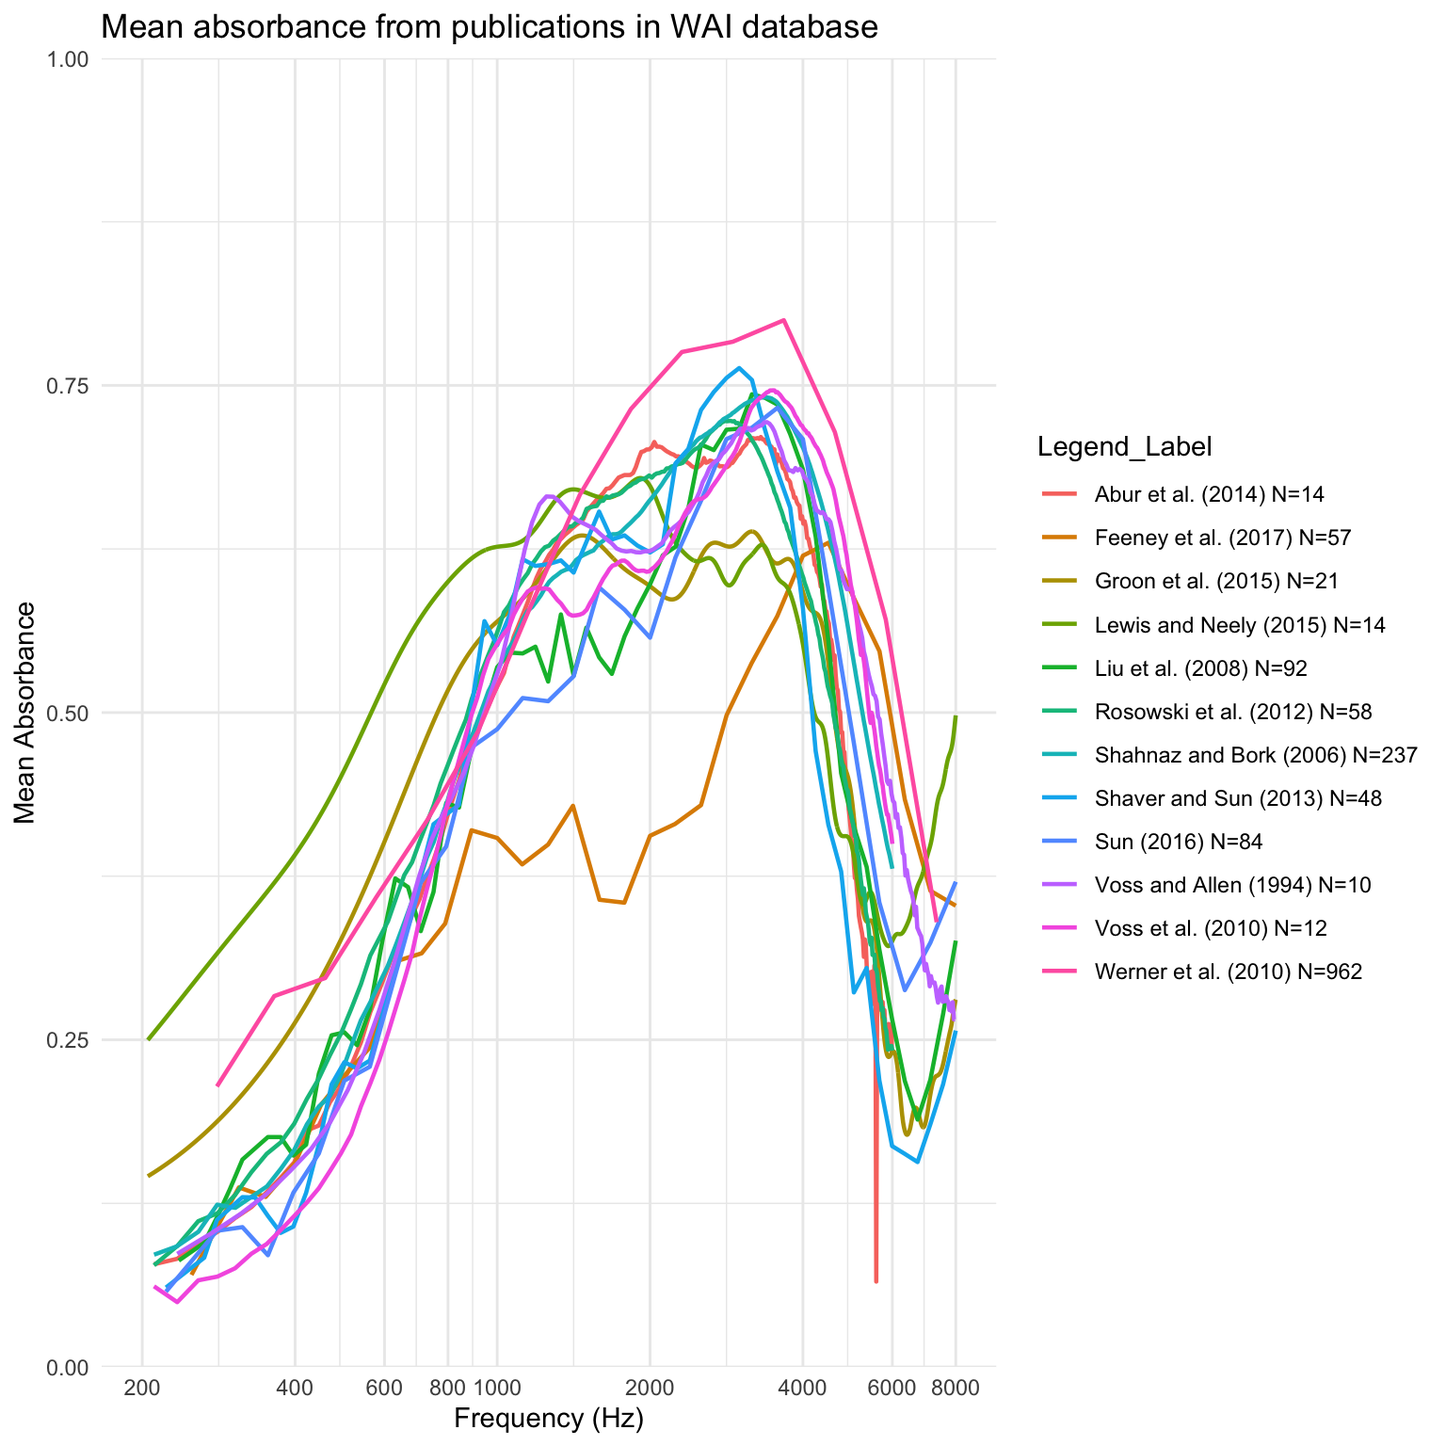
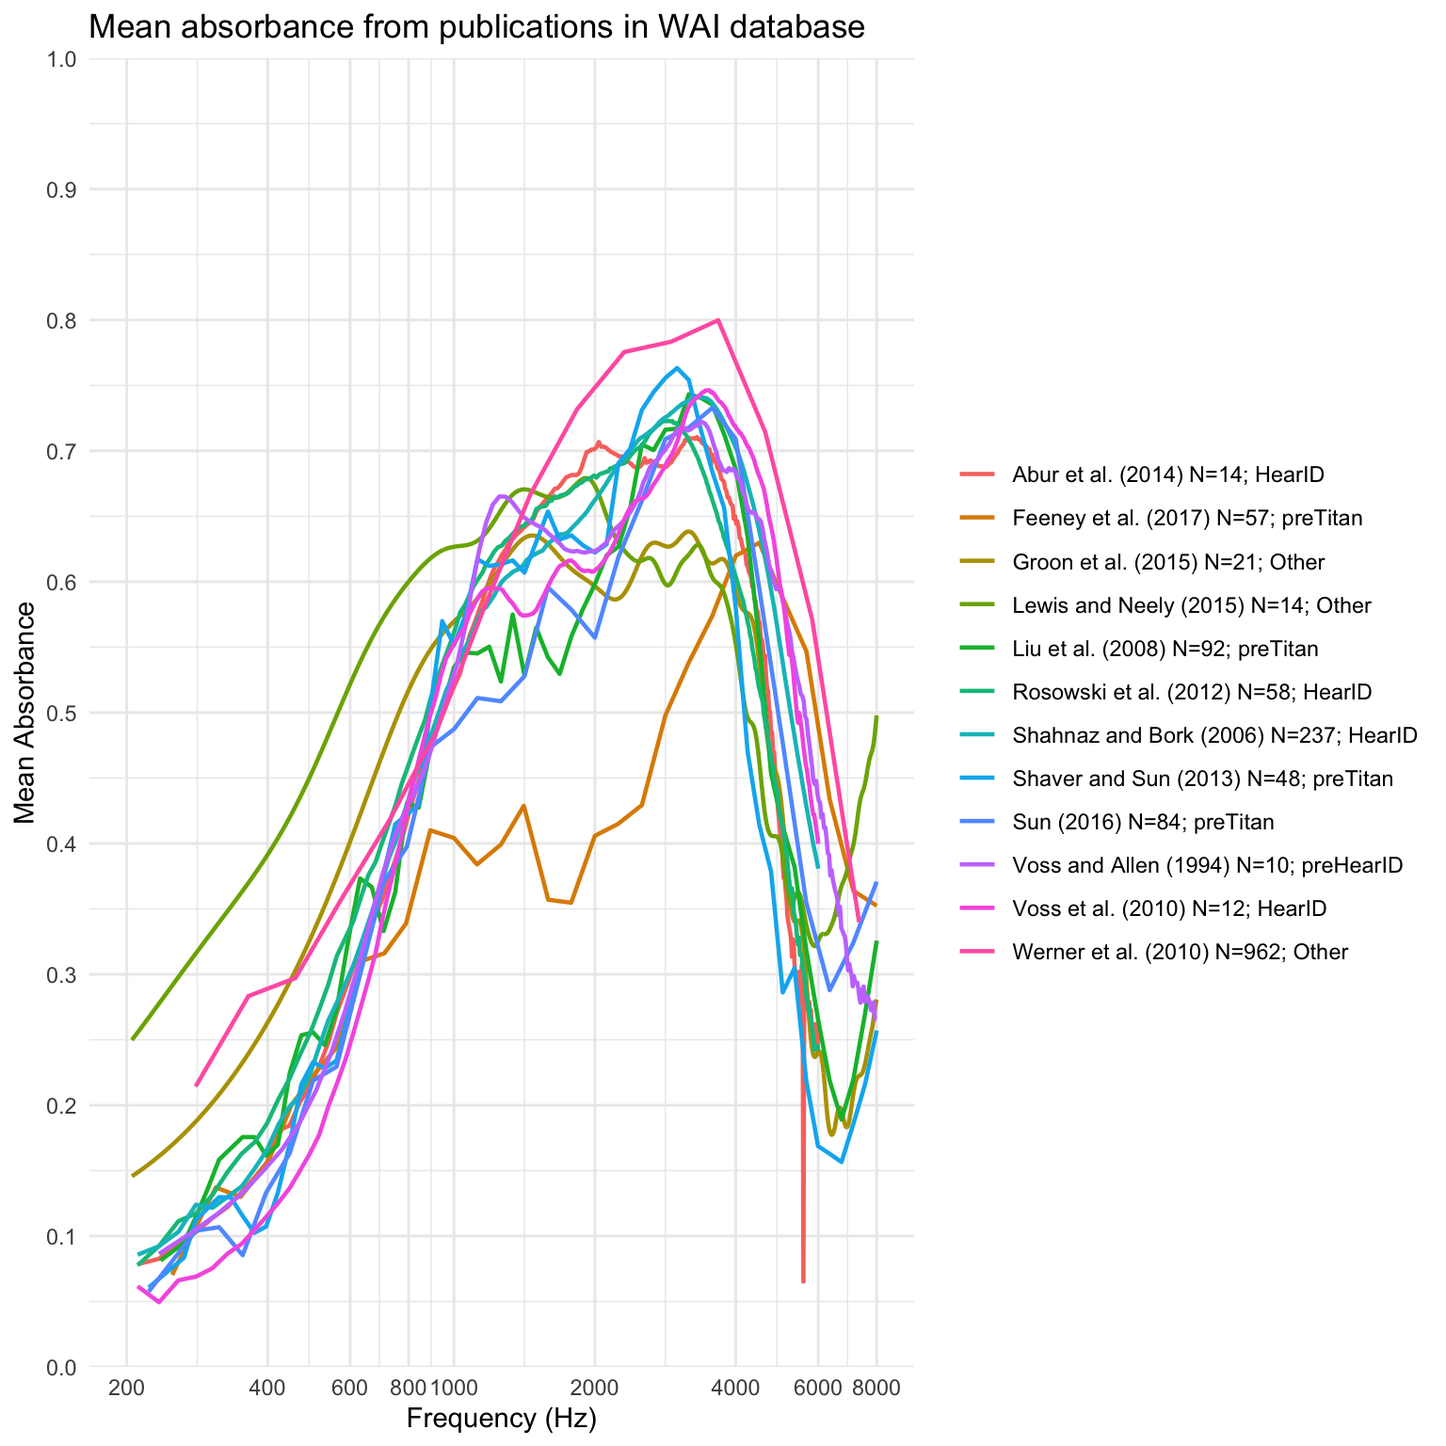
hi

diff --git a/docs/Project_4.html b/docs/Project_4.html
@@ -242,7 +242,8 @@ pre > code.sourceCode > span > a:first-child::before { text-decoration: underlin
 <p>Background: The WAI database is a comprehensive online database for normative adult WAI measurements. This database is designed to facilitate data sharing and analysis among researchers in the field of audiology. As of July 1, 2019, the database encompasses measurements from 12 peer-reviewed studies, totaling 640 subjects and 914 normal middle ears. This results in 286,774 data points across various frequencies. The establishment of this WAI database represents a significant advancement in audiological research, offering a centralized resource for normative data and promoting collaborative efforts in the study of middle-ear pathologies.</p>
 <section id="repliate-figure-1" class="level3">
 <h3 class="anchored" data-anchor-id="repliate-figure-1">1. Repliate Figure 1</h3>
-<p>The objective is to recreate Figure 1, which represents mean absorbance data from select 12 publications in the Wideband Acoustic Immittance (WAI) database, showing how absorbance varies with frequency across different studies.</p>
+<p><a href="https://pmc.ncbi.nlm.nih.gov/articles/PMC7093226/">Original Data Source</a></p>
+<p>The objective is to recreate Figure 1, which represents mean absorbance data from select 12 publications in the Wideband Acoustic Immittance (WAI) database, showing how absorbance varies with frequency across different studies. Susan E. Voss published the study and the supporting Figure 1.</p>
 <p>Starter Code to establish connection to the WAI database.</p>
 <div class="cell">
 <div class="sourceCode cell-code" id="cb1"><pre class="sourceCode r code-with-copy"><code class="sourceCode r"><span id="cb1-1"><a href="#cb1-1" aria-hidden="true" tabindex="-1"></a><span class="fu">library</span>(DBI)</span>
@@ -273,67 +274,60 @@ pre > code.sourceCode > span > a:first-child::before { text-decoration: underlin
 <div class="cell" data-output.var="data">
 <div class="sourceCode cell-code" id="cb2"><pre class="sourceCode sql code-with-copy"><code class="sourceCode sql"><span id="cb2-1"><a href="#cb2-1" aria-hidden="true" tabindex="-1"></a><span class="co">-- Select the relevant columns and compute aggregated values</span></span>
 <span id="cb2-2"><a href="#cb2-2" aria-hidden="true" tabindex="-1"></a><span class="kw">SELECT</span> </span>
-<span id="cb2-3"><a href="#cb2-3" aria-hidden="true" tabindex="-1"></a>    Measurements.<span class="kw">Identifier</span>, </span>
-<span id="cb2-4"><a href="#cb2-4" aria-hidden="true" tabindex="-1"></a>    PI_Info.AuthorsShortList, </span>
-<span id="cb2-5"><a href="#cb2-5" aria-hidden="true" tabindex="-1"></a>    Measurements.Instrument, </span>
-<span id="cb2-6"><a href="#cb2-6" aria-hidden="true" tabindex="-1"></a>    Measurements.Frequency, </span>
-<span id="cb2-7"><a href="#cb2-7" aria-hidden="true" tabindex="-1"></a>    <span class="fu">AVG</span>(Measurements.Absorbance) <span class="kw">AS</span> MeanAbsorbance, </span>
-<span id="cb2-8"><a href="#cb2-8" aria-hidden="true" tabindex="-1"></a><span class="co">-- Create a descriptive label combining author names, year, and sample size    </span></span>
+<span id="cb2-3"><a href="#cb2-3" aria-hidden="true" tabindex="-1"></a>    Measurements.<span class="kw">Identifier</span>,</span>
+<span id="cb2-4"><a href="#cb2-4" aria-hidden="true" tabindex="-1"></a>    PI_Info.AuthorsShortList,</span>
+<span id="cb2-5"><a href="#cb2-5" aria-hidden="true" tabindex="-1"></a>    Measurements.Instrument,</span>
+<span id="cb2-6"><a href="#cb2-6" aria-hidden="true" tabindex="-1"></a>    Measurements.Frequency,</span>
+<span id="cb2-7"><a href="#cb2-7" aria-hidden="true" tabindex="-1"></a>    <span class="fu">AVG</span>(Measurements.Absorbance) <span class="kw">AS</span> MeanAbsorbance,</span>
+<span id="cb2-8"><a href="#cb2-8" aria-hidden="true" tabindex="-1"></a>    <span class="co">-- Create a descriptive label combining author names, year, sample size, and instrument type</span></span>
 <span id="cb2-9"><a href="#cb2-9" aria-hidden="true" tabindex="-1"></a>    <span class="fu">CONCAT</span>(</span>
-<span id="cb2-10"><a href="#cb2-10" aria-hidden="true" tabindex="-1"></a>        PI_Info.AuthorsShortList, <span class="st">' ('</span>, PI_Info.<span class="dt">Year</span>, <span class="st">') N='</span>,</span>
-<span id="cb2-11"><a href="#cb2-11" aria-hidden="true" tabindex="-1"></a>        <span class="fu">COUNT</span>(<span class="kw">DISTINCT</span> <span class="fu">CONCAT</span>(Measurements.SubjectNumber, Measurements.Ear))</span>
-<span id="cb2-12"><a href="#cb2-12" aria-hidden="true" tabindex="-1"></a>    ) <span class="kw">AS</span> Legend_Label</span>
-<span id="cb2-13"><a href="#cb2-13" aria-hidden="true" tabindex="-1"></a><span class="kw">FROM</span> Measurements</span>
-<span id="cb2-14"><a href="#cb2-14" aria-hidden="true" tabindex="-1"></a><span class="co">-- Join the PI_Info table to enrich the data with author and year information</span></span>
-<span id="cb2-15"><a href="#cb2-15" aria-hidden="true" tabindex="-1"></a><span class="kw">JOIN</span> PI_Info </span>
-<span id="cb2-16"><a href="#cb2-16" aria-hidden="true" tabindex="-1"></a><span class="co">-- Match rows based on the shared "Identifier" column    </span></span>
-<span id="cb2-17"><a href="#cb2-17" aria-hidden="true" tabindex="-1"></a>    <span class="kw">ON</span> Measurements.<span class="kw">Identifier</span> <span class="op">=</span> PI_Info.<span class="kw">Identifier</span> </span>
+<span id="cb2-10"><a href="#cb2-10" aria-hidden="true" tabindex="-1"></a>        PI_Info.AuthorsShortList, <span class="st">' ('</span>, PI_Info.<span class="dt">Year</span>, <span class="st">') N='</span>, </span>
+<span id="cb2-11"><a href="#cb2-11" aria-hidden="true" tabindex="-1"></a>        <span class="fu">COUNT</span>(<span class="kw">DISTINCT</span> <span class="fu">CONCAT</span>(Measurements.SubjectNumber, Measurements.Ear)), </span>
+<span id="cb2-12"><a href="#cb2-12" aria-hidden="true" tabindex="-1"></a>        <span class="st">'; '</span>, Measurements.Instrument</span>
+<span id="cb2-13"><a href="#cb2-13" aria-hidden="true" tabindex="-1"></a>    ) <span class="kw">AS</span> Legend_Label</span>
+<span id="cb2-14"><a href="#cb2-14" aria-hidden="true" tabindex="-1"></a><span class="kw">FROM</span> Measurements</span>
+<span id="cb2-15"><a href="#cb2-15" aria-hidden="true" tabindex="-1"></a><span class="co">-- Join the PI_Info table to enrich the data with author and year information</span></span>
+<span id="cb2-16"><a href="#cb2-16" aria-hidden="true" tabindex="-1"></a><span class="kw">JOIN</span> PI_Info</span>
+<span id="cb2-17"><a href="#cb2-17" aria-hidden="true" tabindex="-1"></a><span class="kw">ON</span> Measurements.<span class="kw">Identifier</span> <span class="op">=</span> PI_Info.<span class="kw">Identifier</span></span>
 <span id="cb2-18"><a href="#cb2-18" aria-hidden="true" tabindex="-1"></a><span class="kw">WHERE</span> Measurements.<span class="kw">Identifier</span> <span class="kw">IN</span> (</span>
-<span id="cb2-19"><a href="#cb2-19" aria-hidden="true" tabindex="-1"></a>    <span class="st">'Abur_2014'</span>, <span class="st">'Feeney_2017'</span>, <span class="st">'Groon_2015'</span>, <span class="st">'Lewis_2015'</span>, </span>
-<span id="cb2-20"><a href="#cb2-20" aria-hidden="true" tabindex="-1"></a>    <span class="st">'Liu_2008'</span>, <span class="st">'Rosowski_2012'</span>, <span class="st">'Shahnaz_2006'</span>, <span class="st">'Shaver_2013'</span>, </span>
+<span id="cb2-19"><a href="#cb2-19" aria-hidden="true" tabindex="-1"></a>    <span class="st">'Abur_2014'</span>, <span class="st">'Feeney_2017'</span>, <span class="st">'Groon_2015'</span>, <span class="st">'Lewis_2015'</span>,</span>
+<span id="cb2-20"><a href="#cb2-20" aria-hidden="true" tabindex="-1"></a>    <span class="st">'Liu_2008'</span>, <span class="st">'Rosowski_2012'</span>, <span class="st">'Shahnaz_2006'</span>, <span class="st">'Shaver_2013'</span>,</span>
 <span id="cb2-21"><a href="#cb2-21" aria-hidden="true" tabindex="-1"></a>    <span class="st">'Sun_2016'</span>, <span class="st">'Voss_1994'</span>, <span class="st">'Voss_2010'</span>, <span class="st">'Werner_2010'</span></span>
 <span id="cb2-22"><a href="#cb2-22" aria-hidden="true" tabindex="-1"></a>)</span>
-<span id="cb2-23"><a href="#cb2-23" aria-hidden="true" tabindex="-1"></a><span class="kw">GROUP</span> <span class="kw">BY</span> </span>
-<span id="cb2-24"><a href="#cb2-24" aria-hidden="true" tabindex="-1"></a>    Measurements.<span class="kw">Identifier</span>, </span>
-<span id="cb2-25"><a href="#cb2-25" aria-hidden="true" tabindex="-1"></a>    Measurements.Instrument, </span>
-<span id="cb2-26"><a href="#cb2-26" aria-hidden="true" tabindex="-1"></a>    PI_Info.AuthorsShortList, </span>
-<span id="cb2-27"><a href="#cb2-27" aria-hidden="true" tabindex="-1"></a>    Measurements.Frequency, </span>
-<span id="cb2-28"><a href="#cb2-28" aria-hidden="true" tabindex="-1"></a>    PI_Info.<span class="dt">Year</span>;</span></code><button title="Copy to Clipboard" class="code-copy-button"><i class="bi"></i></button></pre></div>
+<span id="cb2-23"><a href="#cb2-23" aria-hidden="true" tabindex="-1"></a><span class="kw">AND</span> Measurements.Frequency <span class="op">&gt;=</span> <span class="dv">200</span> <span class="co">-- Filter for Frequency &gt;= 200 Hz</span></span>
+<span id="cb2-24"><a href="#cb2-24" aria-hidden="true" tabindex="-1"></a><span class="kw">GROUP</span> <span class="kw">BY</span> </span>
+<span id="cb2-25"><a href="#cb2-25" aria-hidden="true" tabindex="-1"></a>    Measurements.<span class="kw">Identifier</span>,</span>
+<span id="cb2-26"><a href="#cb2-26" aria-hidden="true" tabindex="-1"></a>    Measurements.Instrument,</span>
+<span id="cb2-27"><a href="#cb2-27" aria-hidden="true" tabindex="-1"></a>    PI_Info.AuthorsShortList,</span>
+<span id="cb2-28"><a href="#cb2-28" aria-hidden="true" tabindex="-1"></a>    Measurements.Frequency,</span>
+<span id="cb2-29"><a href="#cb2-29" aria-hidden="true" tabindex="-1"></a>    PI_Info.<span class="dt">Year</span>;</span></code><button title="Copy to Clipboard" class="code-copy-button"><i class="bi"></i></button></pre></div>
 </div>
 <p><strong>Data Visualization:</strong></p>
 <div class="cell">
-<div class="sourceCode cell-code" id="cb3"><pre class="sourceCode r code-with-copy"><code class="sourceCode r"><span id="cb3-1"><a href="#cb3-1" aria-hidden="true" tabindex="-1"></a>data<span class="sc">$</span>Frequency <span class="ot">&lt;-</span> <span class="fu">as.numeric</span>(data<span class="sc">$</span>Frequency)</span>
-<span id="cb3-2"><a href="#cb3-2" aria-hidden="true" tabindex="-1"></a></span>
-<span id="cb3-3"><a href="#cb3-3" aria-hidden="true" tabindex="-1"></a><span class="co"># Filter the data to include only rows where Frequency is 200 Hz or higher</span></span>
-<span id="cb3-4"><a href="#cb3-4" aria-hidden="true" tabindex="-1"></a>data <span class="ot">&lt;-</span> data <span class="sc">%&gt;%</span></span>
-<span id="cb3-5"><a href="#cb3-5" aria-hidden="true" tabindex="-1"></a>  <span class="fu">filter</span>(Frequency <span class="sc">&gt;=</span> <span class="dv">200</span>)</span>
-<span id="cb3-6"><a href="#cb3-6" aria-hidden="true" tabindex="-1"></a></span>
-<span id="cb3-7"><a href="#cb3-7" aria-hidden="true" tabindex="-1"></a><span class="co"># Create the plot</span></span>
-<span id="cb3-8"><a href="#cb3-8" aria-hidden="true" tabindex="-1"></a><span class="fu">ggplot</span>(data, <span class="fu">aes</span>(<span class="at">x =</span> Frequency, <span class="at">y =</span> MeanAbsorbance, <span class="at">color =</span> Legend_Label)) <span class="sc">+</span></span>
-<span id="cb3-9"><a href="#cb3-9" aria-hidden="true" tabindex="-1"></a><span class="co"># Adds lines representing Mean Absorbance for each Legend_Label group  </span></span>
-<span id="cb3-10"><a href="#cb3-10" aria-hidden="true" tabindex="-1"></a>  <span class="fu">geom_line</span>(<span class="at">size =</span> <span class="fl">0.8</span>) <span class="sc">+</span> </span>
-<span id="cb3-11"><a href="#cb3-11" aria-hidden="true" tabindex="-1"></a>  <span class="fu">labs</span>(</span>
-<span id="cb3-12"><a href="#cb3-12" aria-hidden="true" tabindex="-1"></a>    <span class="at">title =</span> <span class="st">"Mean absorbance from publications in WAI database"</span>,</span>
-<span id="cb3-13"><a href="#cb3-13" aria-hidden="true" tabindex="-1"></a>    <span class="at">x =</span> <span class="st">"Frequency (Hz)"</span>,</span>
-<span id="cb3-14"><a href="#cb3-14" aria-hidden="true" tabindex="-1"></a>    <span class="at">y =</span> <span class="st">"Mean Absorbance"</span></span>
+<div class="sourceCode cell-code" id="cb3"><pre class="sourceCode r code-with-copy"><code class="sourceCode r"><span id="cb3-1"><a href="#cb3-1" aria-hidden="true" tabindex="-1"></a><span class="co"># Create the plot</span></span>
+<span id="cb3-2"><a href="#cb3-2" aria-hidden="true" tabindex="-1"></a><span class="fu">ggplot</span>(data, <span class="fu">aes</span>(<span class="at">x =</span> Frequency, <span class="at">y =</span> MeanAbsorbance, <span class="at">color =</span> Legend_Label)) <span class="sc">+</span></span>
+<span id="cb3-3"><a href="#cb3-3" aria-hidden="true" tabindex="-1"></a>  <span class="fu">geom_line</span>(<span class="at">size =</span> <span class="fl">0.8</span>) <span class="sc">+</span> </span>
+<span id="cb3-4"><a href="#cb3-4" aria-hidden="true" tabindex="-1"></a>  <span class="fu">labs</span>(</span>
+<span id="cb3-5"><a href="#cb3-5" aria-hidden="true" tabindex="-1"></a>    <span class="at">title =</span> <span class="st">"Mean absorbance from publications in WAI database"</span>,</span>
+<span id="cb3-6"><a href="#cb3-6" aria-hidden="true" tabindex="-1"></a>    <span class="at">x =</span> <span class="st">"Frequency (Hz)"</span>,</span>
+<span id="cb3-7"><a href="#cb3-7" aria-hidden="true" tabindex="-1"></a>    <span class="at">y =</span> <span class="st">"Mean Absorbance"</span></span>
+<span id="cb3-8"><a href="#cb3-8" aria-hidden="true" tabindex="-1"></a>  ) <span class="sc">+</span></span>
+<span id="cb3-9"><a href="#cb3-9" aria-hidden="true" tabindex="-1"></a>  <span class="fu">theme_minimal</span>() <span class="sc">+</span></span>
+<span id="cb3-10"><a href="#cb3-10" aria-hidden="true" tabindex="-1"></a>  <span class="fu">scale_x_continuous</span>(</span>
+<span id="cb3-11"><a href="#cb3-11" aria-hidden="true" tabindex="-1"></a>    <span class="at">trans =</span> <span class="st">"log10"</span>,</span>
+<span id="cb3-12"><a href="#cb3-12" aria-hidden="true" tabindex="-1"></a>    <span class="at">breaks =</span> <span class="fu">c</span>(<span class="dv">200</span>, <span class="dv">400</span>, <span class="dv">600</span>, <span class="dv">800</span>, <span class="dv">1000</span>, <span class="dv">2000</span>, <span class="dv">4000</span>, <span class="dv">6000</span>, <span class="dv">8000</span>),</span>
+<span id="cb3-13"><a href="#cb3-13" aria-hidden="true" tabindex="-1"></a>    <span class="at">labels =</span> <span class="fu">c</span>(<span class="st">"200"</span>, <span class="st">"400"</span>, <span class="st">"600"</span>, <span class="st">"800"</span>, <span class="st">"1000"</span>, <span class="st">"2000"</span>, <span class="st">"4000"</span>, <span class="st">"6000"</span>, <span class="st">"8000"</span>),</span>
+<span id="cb3-14"><a href="#cb3-14" aria-hidden="true" tabindex="-1"></a>    <span class="at">limits =</span> <span class="fu">c</span>(<span class="dv">200</span>, <span class="dv">8000</span>)</span>
 <span id="cb3-15"><a href="#cb3-15" aria-hidden="true" tabindex="-1"></a>  ) <span class="sc">+</span></span>
-<span id="cb3-16"><a href="#cb3-16" aria-hidden="true" tabindex="-1"></a>  <span class="fu">theme_minimal</span>() <span class="sc">+</span></span>
-<span id="cb3-17"><a href="#cb3-17" aria-hidden="true" tabindex="-1"></a>  <span class="fu">scale_x_continuous</span>(</span>
-<span id="cb3-18"><a href="#cb3-18" aria-hidden="true" tabindex="-1"></a><span class="co"># Transforms the x-axis to a logarithmic scale for better visualization of frequency values.    </span></span>
-<span id="cb3-19"><a href="#cb3-19" aria-hidden="true" tabindex="-1"></a>    <span class="at">trans =</span> <span class="st">"log10"</span>,</span>
-<span id="cb3-20"><a href="#cb3-20" aria-hidden="true" tabindex="-1"></a><span class="co"># Sets custom tick marks on the x-axis    </span></span>
-<span id="cb3-21"><a href="#cb3-21" aria-hidden="true" tabindex="-1"></a>    <span class="at">breaks =</span> <span class="fu">c</span>(<span class="dv">200</span>, <span class="dv">400</span>, <span class="dv">600</span>, <span class="dv">800</span>, <span class="dv">1000</span>, <span class="dv">2000</span>, <span class="dv">4000</span>, <span class="dv">6000</span>, <span class="dv">8000</span>),</span>
-<span id="cb3-22"><a href="#cb3-22" aria-hidden="true" tabindex="-1"></a><span class="co"># Labels for the tick marks</span></span>
-<span id="cb3-23"><a href="#cb3-23" aria-hidden="true" tabindex="-1"></a>    <span class="at">labels =</span> <span class="fu">c</span>(<span class="st">"200"</span>, <span class="st">"400"</span>, <span class="st">"600"</span>, <span class="st">"800"</span>, <span class="st">"1000"</span>, <span class="st">"2000"</span>, <span class="st">"4000"</span>, <span class="st">"6000"</span>, <span class="st">"8000"</span>),</span>
-<span id="cb3-24"><a href="#cb3-24" aria-hidden="true" tabindex="-1"></a><span class="co"># Restricts the x-axis range to frequencies between 200 and 8000 Hz</span></span>
-<span id="cb3-25"><a href="#cb3-25" aria-hidden="true" tabindex="-1"></a>    <span class="at">limits =</span> <span class="fu">c</span>(<span class="dv">200</span>, <span class="dv">8000</span>)</span>
-<span id="cb3-26"><a href="#cb3-26" aria-hidden="true" tabindex="-1"></a>  ) <span class="sc">+</span></span>
-<span id="cb3-27"><a href="#cb3-27" aria-hidden="true" tabindex="-1"></a>  <span class="fu">scale_y_continuous</span>(</span>
-<span id="cb3-28"><a href="#cb3-28" aria-hidden="true" tabindex="-1"></a><span class="co"># Restricts the y-axis range to values between 0 and 1    </span></span>
-<span id="cb3-29"><a href="#cb3-29" aria-hidden="true" tabindex="-1"></a>    <span class="at">limits =</span> <span class="fu">c</span>(<span class="dv">0</span>, <span class="dv">1</span>),</span>
-<span id="cb3-30"><a href="#cb3-30" aria-hidden="true" tabindex="-1"></a><span class="co"># Removes additional padding from the y-axis range    </span></span>
-<span id="cb3-31"><a href="#cb3-31" aria-hidden="true" tabindex="-1"></a>    <span class="at">expand =</span> <span class="fu">c</span>(<span class="dv">0</span>, <span class="dv">0</span>)</span>
-<span id="cb3-32"><a href="#cb3-32" aria-hidden="true" tabindex="-1"></a>  )</span></code><button title="Copy to Clipboard" class="code-copy-button"><i class="bi"></i></button></pre></div>
+<span id="cb3-16"><a href="#cb3-16" aria-hidden="true" tabindex="-1"></a>  <span class="fu">scale_y_continuous</span>(</span>
+<span id="cb3-17"><a href="#cb3-17" aria-hidden="true" tabindex="-1"></a>    <span class="at">breaks =</span> <span class="fu">seq</span>(<span class="dv">0</span>, <span class="dv">1</span>, <span class="at">by =</span> <span class="fl">0.1</span>), <span class="co"># Adjusts y-axis values to increment by 0.1</span></span>
+<span id="cb3-18"><a href="#cb3-18" aria-hidden="true" tabindex="-1"></a>    <span class="at">labels =</span> scales<span class="sc">::</span><span class="fu">label_number</span>(<span class="at">accuracy =</span> <span class="fl">0.1</span>), <span class="co"># Ensures consistent number formatting</span></span>
+<span id="cb3-19"><a href="#cb3-19" aria-hidden="true" tabindex="-1"></a>    <span class="at">limits =</span> <span class="fu">c</span>(<span class="dv">0</span>, <span class="dv">1</span>),</span>
+<span id="cb3-20"><a href="#cb3-20" aria-hidden="true" tabindex="-1"></a>    <span class="at">expand =</span> <span class="fu">c</span>(<span class="dv">0</span>, <span class="dv">0</span>)</span>
+<span id="cb3-21"><a href="#cb3-21" aria-hidden="true" tabindex="-1"></a>  ) <span class="sc">+</span></span>
+<span id="cb3-22"><a href="#cb3-22" aria-hidden="true" tabindex="-1"></a>  <span class="fu">theme</span>(</span>
+<span id="cb3-23"><a href="#cb3-23" aria-hidden="true" tabindex="-1"></a>    <span class="at">legend.title =</span> <span class="fu">element_blank</span>() <span class="co"># Removes the legend title</span></span>
+<span id="cb3-24"><a href="#cb3-24" aria-hidden="true" tabindex="-1"></a>  )</span></code><button title="Copy to Clipboard" class="code-copy-button"><i class="bi"></i></button></pre></div>
 <div class="cell-output-display">
 <div>
 <figure class="figure">
@@ -349,6 +343,7 @@ pre > code.sourceCode > span > a:first-child::before { text-decoration: underlin
 </section>
 <section id="deeper-dive-into-feeney-et-al.-2017" class="level3">
 <h3 class="anchored" data-anchor-id="deeper-dive-into-feeney-et-al.-2017">2. Deeper Dive into Feeney et al.&nbsp;(2017)</h3>
+<p><a href="https://www.science.smith.edu/wai-database/">Original Data Source</a></p>
 <p>I decided to choose the most recent study among the 12 selected publications, which was Feeney et al.&nbsp;(2017). This contains various grouping variables such as age, sex, and race/ethnicity. I chose Sex as the grouping variable because it is a common demographic factor in audiological studies and is likely to show differences in middle-ear characteristics.</p>
 <p>The below SQL query takes on a similar process as that of recreating Figure 1. In this case, the Identifier would be the Feeney_2017, instead of all the 12 studies.</p>
 <div class="cell" data-output.var="data">
